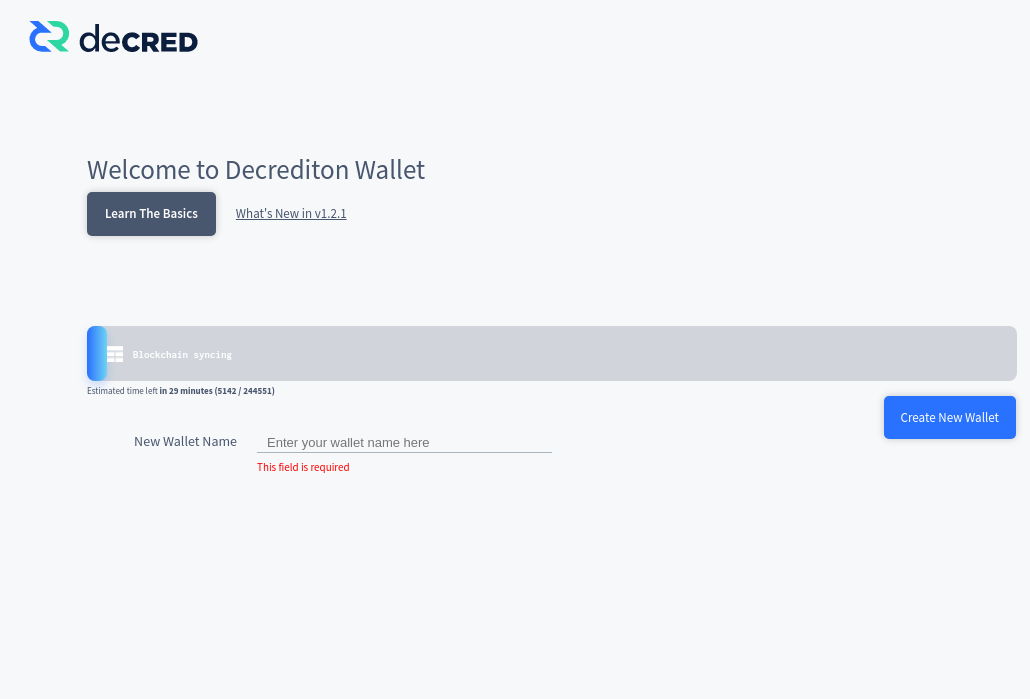
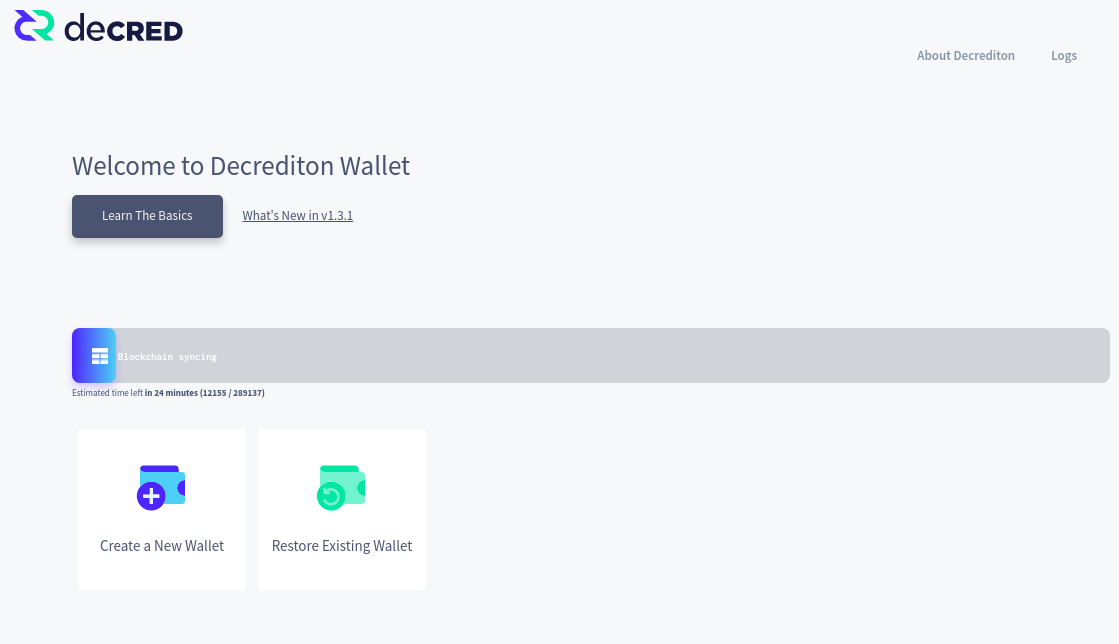
Update decrediton setup for 1.3.1.

diff --git a/docs/getting-started/user-guides/decrediton-setup.md b/docs/getting-started/user-guides/decrediton-setup.md
@@ -1,6 +1,6 @@
 # <img class="dcr-icon" src="/img/dcr-icons/Wallet.svg" /> Decrediton Setup Guide
 
-Last updated for Decrediton v1.2.1.
+Last updated for Decrediton v1.3.1.
 
 ---
 
@@ -18,31 +18,27 @@ The latest version of Decrediton can be downloaded from [https://decred.org/down
 
 ??? info "Windows instructions (click to expand)"
 
-    1. Download the Windows installer `decrediton-v1.2.1.exe`.
+    1. Download the Windows installer `decrediton-v1.3.1.exe`.
 
-    1. Double click the installer and follow the instructions. This will install and automatically start up Decrediton to download the Decred blockchain and set up your wallet.
+    1. Double click the installer and follow the instructions.
 
-    1. The installer adds a shortcut to Decrediton on your desktop for next time you want to use it.
+    1. The installer adds a shortcut to Decrediton on your desktop.
 
 ??? info "macOS instructions (click to expand)"
 
-    1. Download the `decrediton-v1.2.1.dmg` file.
+    1. Download the `decrediton-v1.3.1.dmg` file.
 
-    1. Double click the `decrediton-v1.2.1.dmg` file once downloaded to mount the disk image.
+    1. Double click the `decrediton-v1.3.1.dmg` file to mount the disk image.
 
-    1. Drag the decrediton.app into the link to your Applications folder within the disk image.
+    1. Drag the `decrediton.app` file into the link to your Applications folder within the disk image.
 
 ??? info "Linux instructions (click to expand)"
 
-    1. Download the `decrediton-v1.2.1.tar.gz` file.
+    1. Download the `decrediton-v1.3.1.tar.gz` file.
 
-    1. Navigate to download location and extract the .tar.gz file:
+    1. Navigate to the download location and extract `decrediton-v1.3.1.tar.gz`.
 
-        Ubuntu File Browser: simply right click on the .tar.gz file and select "Extract Here".
-
-        Terminal: use the `tar -xvzf filename.tar.gz` command.
-
-        Both of these should extract the tar.gz into a folder that shares the same name. (`e.g. tar -xvzf decrediton-v1.2.1.tar.gz` should extract to `decrediton-v1.2.1`). If successful, this new folder should include a `decrediton` executable.
+    1. The extracted files include an executable named `decrediton`.
 
 ---
 
@@ -52,13 +48,17 @@ Opening Decrediton for the first time will display the following screen:
 
 ![Decrediton startup screen](/img/decrediton/startup.png)
 
-Select your desired language and press **Continue**. A short presentation explaining Decred blockchain, wallet, keys, staking/governance, and safety tips is shown. Please read these slides carefully if you are new to Decred.
+Select your desired language and press **Continue**. You will then be offered various privacy options which allow you to restrict which external services Decrediton will contact. The "Standard" option is recommended for most users, as this will enable all of the features in Decrediton and provide the best user experience.
+
+![Decrediton privacy options](/img/decrediton/privacy-options.png)
+
+After making your choice, a short presentation explaining Decred blockchain, wallet, keys, staking/governance, and safety tips is shown. Please read these slides carefully if you are new to Decred.
 
 The following screen should be displayed next.
 
 ![Decrediton blockchain download screen](/img/decrediton/chain-downloading.png)
 
-A large progress bar on this screen shows the progress of the blockchain download. You can begin to set up your wallet before the download completes. 
+A large progress bar on this screen shows the progress of the blockchain download. 
 
 !!! info "Pausing the download"
 
@@ -66,17 +66,17 @@ A large progress bar on this screen shows the progress of the blockchain downloa
 
     This means you can download the blockchain in multiple sessions if required.
 
-As Decrediton allows you to manage multiple wallets on one PC, you must give a name to your wallet so it can be identified. Enter a name and press the **Create New Wallet** button. You will now be faced with two options: 
+You can begin to set up your wallet before the download completes. You have to options:
 
-1. **Create a New Wallet** - Press this button if this is your first time using Decred.
+1. [Create a New Wallet](#create-a-new-wallet) - Press this button if this is your first time using Decred.
 
-1. **Restore Existing Wallet** - Press this button if you already have a wallet seed. You can skip ahead to [Restore Existing Wallet From Seed](decrediton-setup.md#restore-existing-wallet-from-seed)
-
-![Decrediton create wallet screen](/img/decrediton/create-wallet.png)
+1. [Restore Existing Wallet](#restore-existing-wallet) - Press this button if you already have a wallet seed you would like to use.
 
 ---
 
 ## Create a New Wallet
+
+As Decrediton allows you to manage multiple wallets on one PC, you must give a name to your wallet so it can be identified. Enter a name and press the **Continue** button.
 
 !!! danger "Critical Information"
 
@@ -96,15 +96,17 @@ Press **Continue** and re-enter the missing words from your seed on the next scr
 
 ![Decrediton seed entry screen](/img/decrediton/seed-entered.png)
 
-Create a private passphrase for your wallet. This passphrase will be used to unlock your wallet when creating transactions.
+Create a passphrase for your wallet. This passphrase will be used to unlock your wallet when creating transactions.
 
 Press **Create Wallet** and your wallet setup is complete. You will be taken back to the blockchain download progress bar. Once the download has been completed, Decrediton will open the Overview page for your new wallet and you will be able to begin sending and receiving Decred.
 
 ---
 
-## Restore Existing Wallet From Seed
+## Restore Existing Wallet
 
-1. If you already have a wallet seed you can use it by clicking on the **Existing Seed** button.
+1. As Decrediton allows you to manage multiple wallets on one PC, you must give a name to your wallet so it can be identified. 
+
+1. Advanced users can use the "Watch only" option and enter a public key to configure a watch only wallet.
 
 1. Enter your seed into the **Confirm Seed** text box.
 
